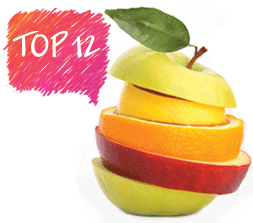
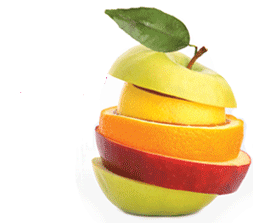
added new tastes, minor image fixes

Changed region(s): [[0.0, 0.0269, 0.4427, 0.4843]]

diff --git a/app/assets/stylesheets/main.css.scss b/app/assets/stylesheets/main.css.scss
@@ -212,6 +212,7 @@ ul.social { list-style: none; margin: 15px 0 0 10px; display: inline-block;
   h2 { margin-bottom: 15px; }
 }
 #fruits-top12 { background: image-url("fruits-top12.png"); width: 253px; height: 223px; position: absolute; right: 0; top: -15px;}
+#logo-top12 { background: image-url("logo-top12.png"); width: 108px; height: 101px; position: absolute; right: 150px; top: 0;}
 
 #about-us-header { margin: 0 0 30px 270px; background: image-url("about-us-header.png") no-repeat; width: 104px; height: 36px; overflow: hidden; text-indent: -9999px; }
 #about-goals-header { margin: 0 0 30px 235px; background: image-url("about-goals-header.png") no-repeat; width: 182px; height: 36px; overflow: hidden; text-indent: -9999px; }

diff --git a/db/migrate/20130303045149_add_new_tastes.rb b/db/migrate/20130303045149_add_new_tastes.rb
@@ -1,0 +1,20 @@
+# encoding: utf-8
+
+class AddNewTastes < ActiveRecord::Migration
+  def up
+    #Taste.create(:code => "Oreo", :sort_order => 52, :name => "Печенье с кремом", :color => "935e26", :yogurt => "зеленое яблоко, ваниль, банан", :fruits => "банан, клубника, голубика", :liquid => "карамель, шоколад", :topings => "ореховая смесь, дробленый арахис, йогуртовые чипсы")
+    #Taste.create(:code => "Blueberry_Cheese_Cake", :sort_order => 11, :name => "Черничный чизкейк", :color => "4a5d91", :yogurt => "классический, клубника, малина", :fruits => "голубика, клубника, киви", :liquid => "клубника, шоколад", :topings => "мотчи, ореховая смесь, кокос")
+
+    add_column :tastes, :soy, :boolean, :default => false
+
+    Taste.find(5).update_attributes(:soy => true)
+    Taste.find(38).update_attributes(:soy => true)
+  end
+
+  def down
+    remove_column :tastes, :soy
+
+    Taste.destroy(:code => "Oreo")
+    Taste.destroy(:code => "Blueberry_Cheese_Cake")
+  end
+end

diff --git a/db/schema.rb b/db/schema.rb
@@ -11,7 +11,7 @@
 #
 # It's strongly recommended to check this file into your version control system.
 
-ActiveRecord::Schema.define(:version => 20121218142452) do
+ActiveRecord::Schema.define(:version => 20130303045149) do
 
   create_table "tastes", :force => true do |t|
     t.string   "code"
@@ -22,8 +22,10 @@ ActiveRecord::Schema.define(:version => 20121218142452) do
     t.string   "liquid"
     t.string   "color"
     t.integer  "votes",      :default => 0
-    t.datetime "created_at",                :null => false
-    t.datetime "updated_at",                :null => false
+    t.datetime "created_at",                    :null => false
+    t.datetime "updated_at",                    :null => false
+    t.integer  "sort_order"
+    t.boolean  "soy",        :default => false
   end
 
   add_index "tastes", ["code"], :name => "index_tastes_on_code", :unique => true

diff --git a/app/controllers/tastes_controller.rb b/app/controllers/tastes_controller.rb
@@ -4,7 +4,8 @@ class TastesController < ApplicationController
   layout "inner"
 
   def index
-    @tastes = Taste.order("id")
+    @tastes = Taste.where(:soy => false).order("sort_order")
+    @soy_tastes = Taste.where(:soy => true).order("sort_order")
   end
 
   def show
@@ -13,7 +14,8 @@ class TastesController < ApplicationController
     if request.xhr?
       render partial: "tastes/large_taste", locals: { taste: @taste }
     else
-      @tastes = Taste.order("id")
+      @tastes = Taste.order("sort_order")
+      @soy_tastes = Taste.where(:soy => 1).order("sort_order")
       render "index"
     end
   end

diff --git a/db/migrate/20130303044000_add_sort_order_to_tastes.rb b/db/migrate/20130303044000_add_sort_order_to_tastes.rb
@@ -1,0 +1,11 @@
+class AddSortOrderToTastes < ActiveRecord::Migration
+  def change
+    add_column :tastes, :sort_order, :int
+    
+    Taste.all.each do |taste|
+      taste.update_attributes!(:sort_order => taste.id)
+    end
+    Taste.find(2).update_attributes(:sort_order => 53)
+    Taste.find(11).update_attributes(:sort_order => 2)
+  end
+end
